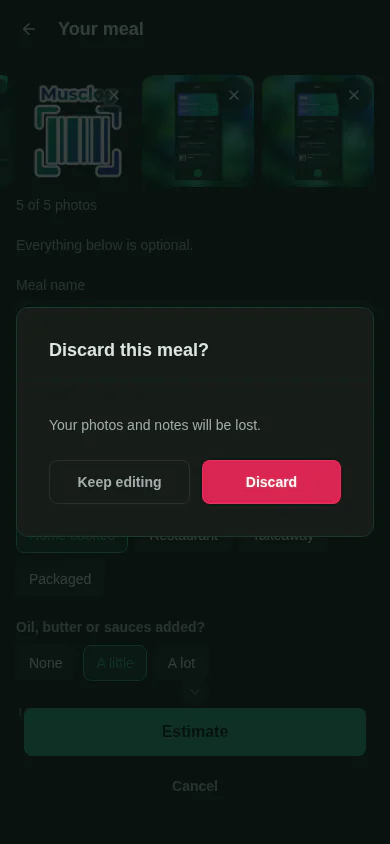
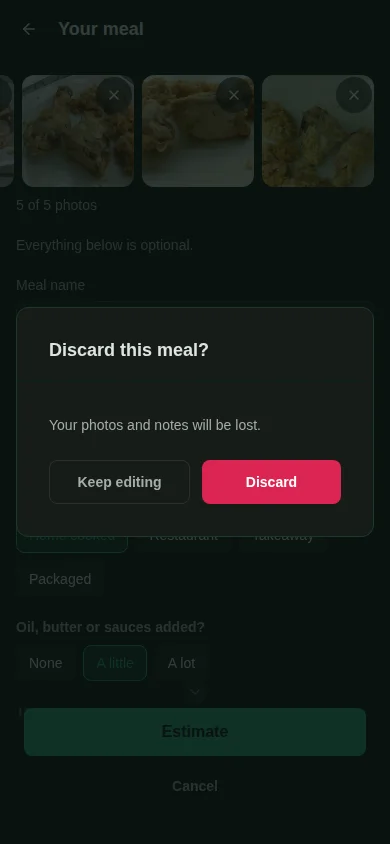
update blog post

Changed region(s): [[0.0, 0.0616, 0.9846, 0.2464]]

diff --git a/app/(website)/posts/2026/11/add-up-to-five-photos-and-a-note-to-one-meal-in-musclog.md b/app/(website)/posts/2026/11/add-up-to-five-photos-and-a-note-to-one-meal-in-musclog.md
@@ -27,7 +27,7 @@ So the order changes. **Take the photo first, add context after.**
 4. Add anything you want to tell the AI. All of it is optional.
 5. Tap **Estimate**.
 
-![The meal details sheet in Musclog with three photos in a sideways strip, a filled-in meal name and empty note field](/images/blog/2026/11/meal-photos-sheet.webp 'Three photos of one meal. The dashed tile at the edge is the + to add another.')
+![The meal details sheet in Musclog with three photos of a plate of chicken and rice in a sideways strip, a filled-in meal name and empty note field](/images/blog/2026/11/meal-photos-sheet.webp 'Three photos of one meal. The dashed tile at the edge is the + to add another.')
 ![The same sheet scrolled down to the origin, added fat and tag chips, with a few chips selected](/images/blog/2026/11/meal-photos-sheet-fields.webp 'Everything below the photos is optional.')
 
 What you can add:
@@ -74,3 +74,5 @@ The same choice is a page of the What's new tour, so you can pick without huntin
 ![The What's new page for the meal camera, with Detailed and Quick options](/images/blog/2026/11/meal-camera-whats-new.webp 'You can choose right in the tour.')
 
 Musclog is open source. The AI meal camera needs an AI provider set up in Settings, and the on-device model needs the photo-understanding part of its download.
+
+_Meal photos in the screenshots: [Nutrition5k](https://github.com/google-research-datasets/Nutrition5k) by Google Research, licensed under [CC BY 4.0](https://creativecommons.org/licenses/by/4.0/), cropped and rotated._
